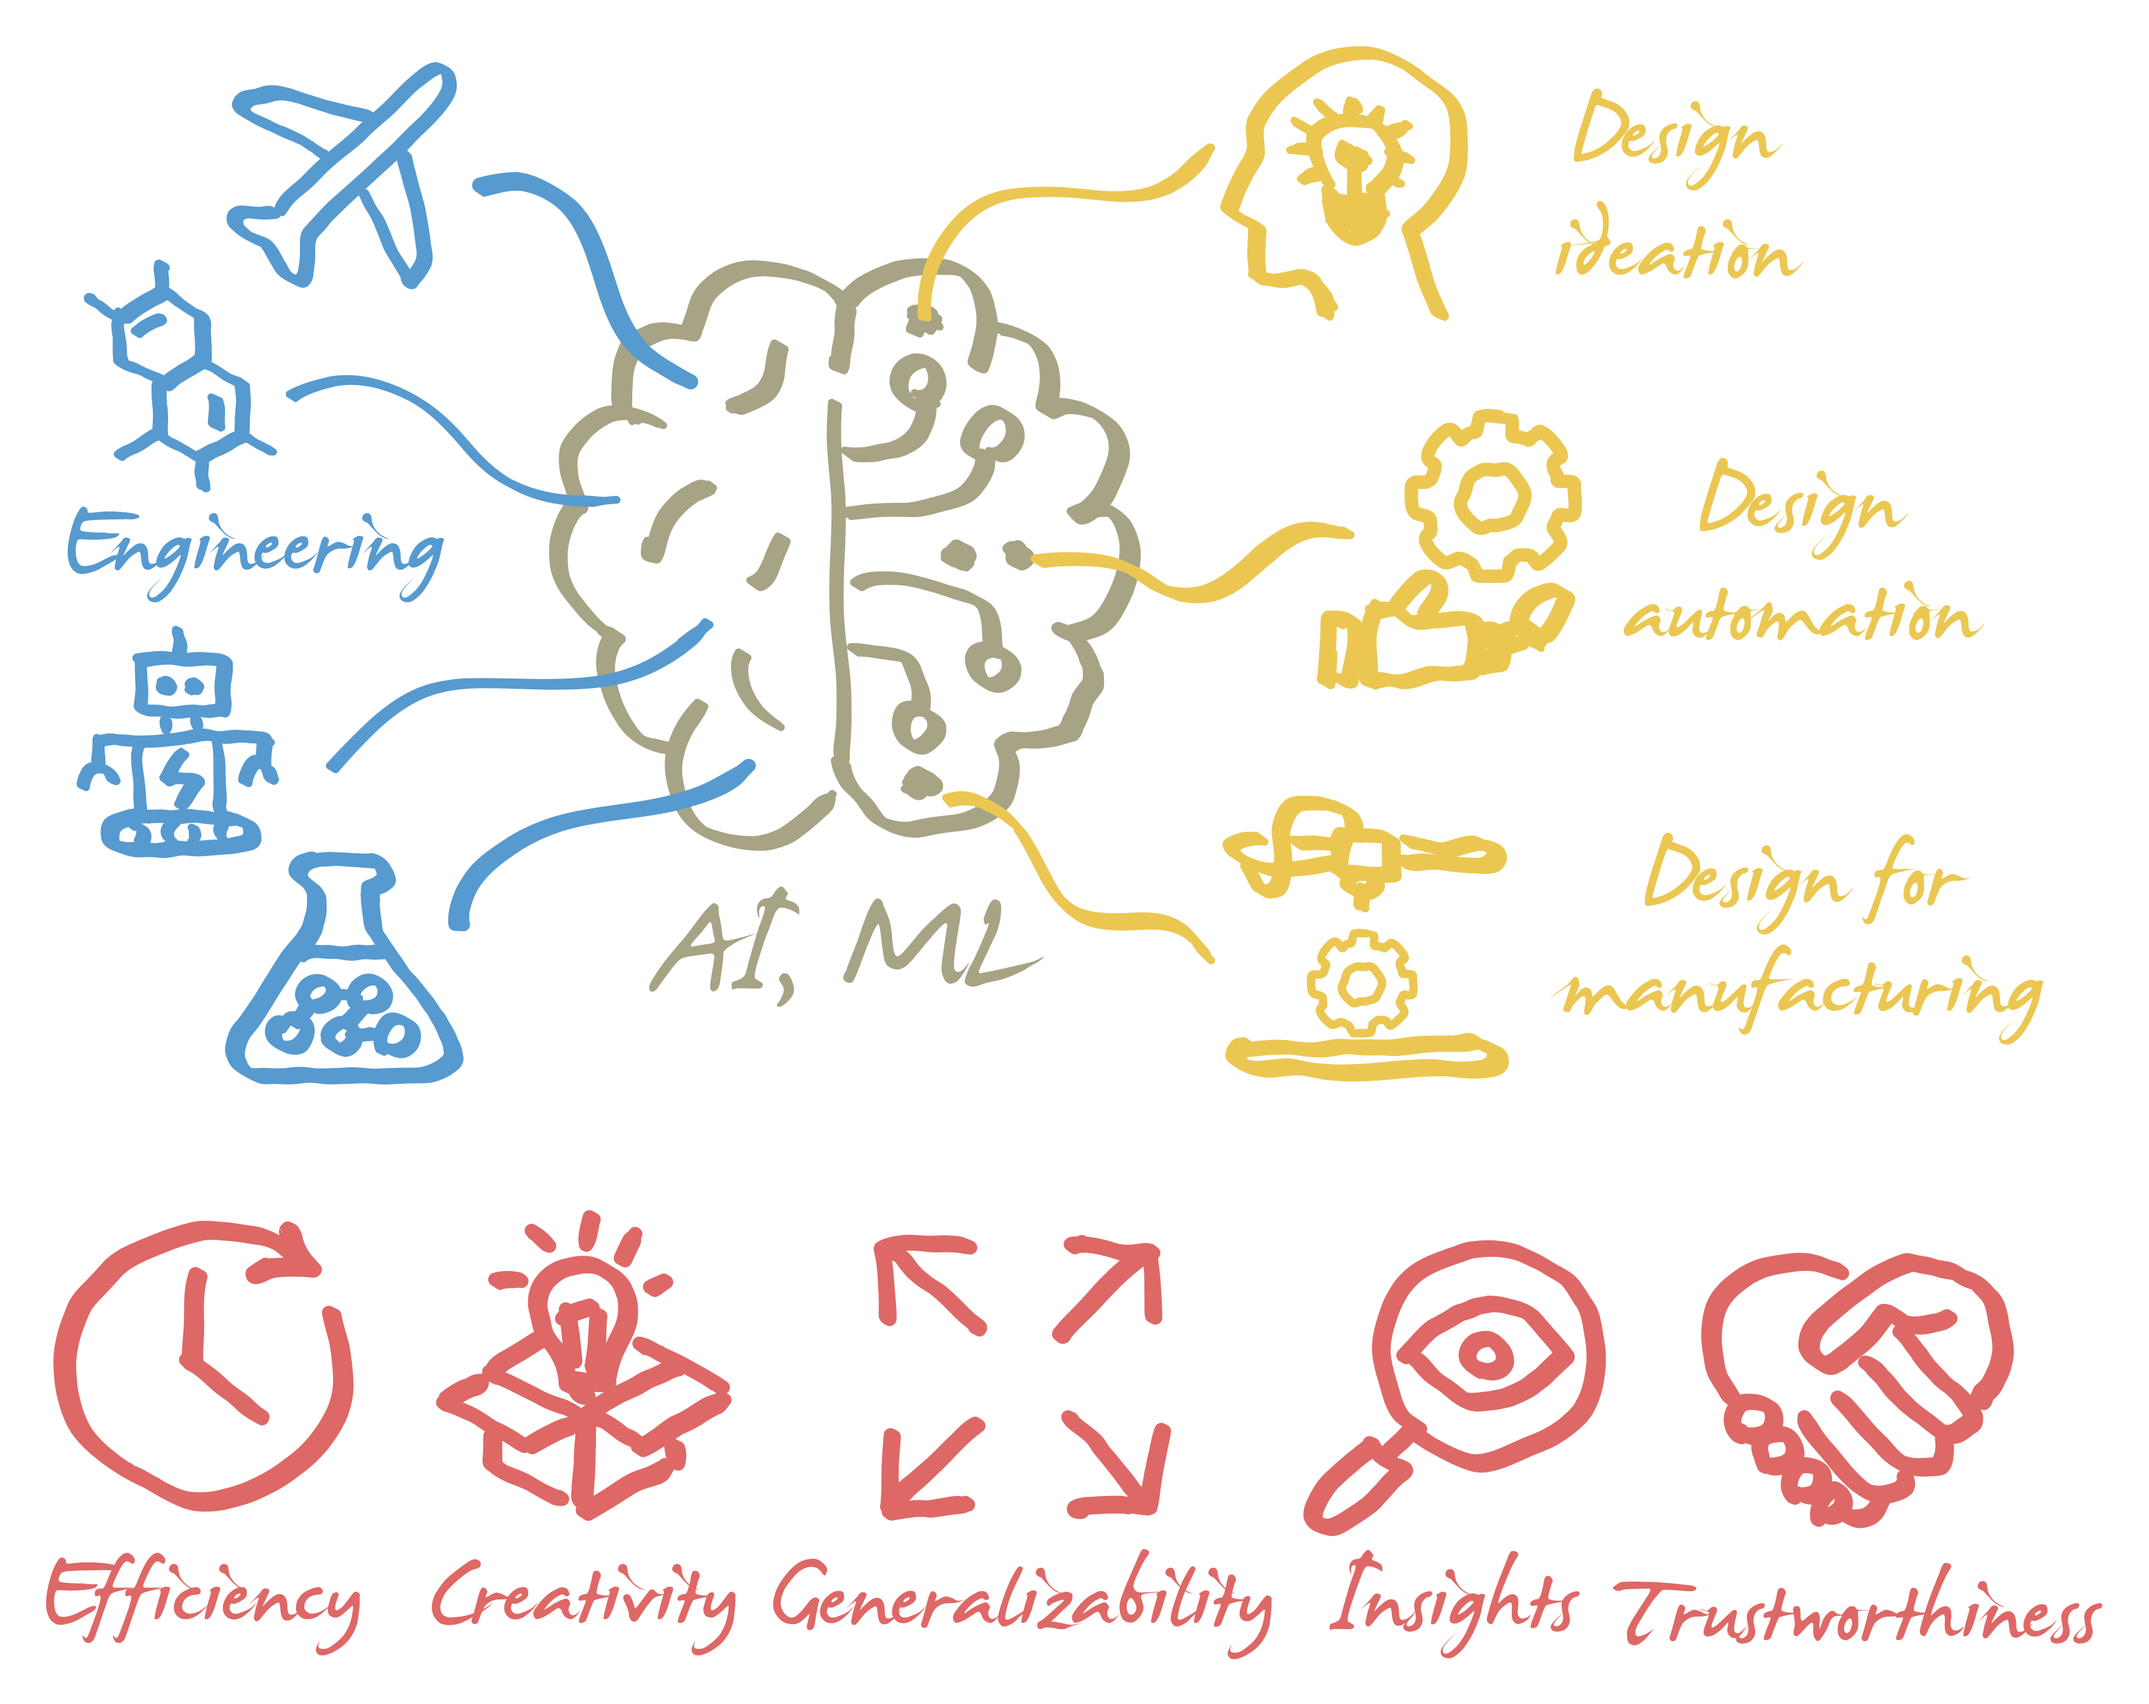
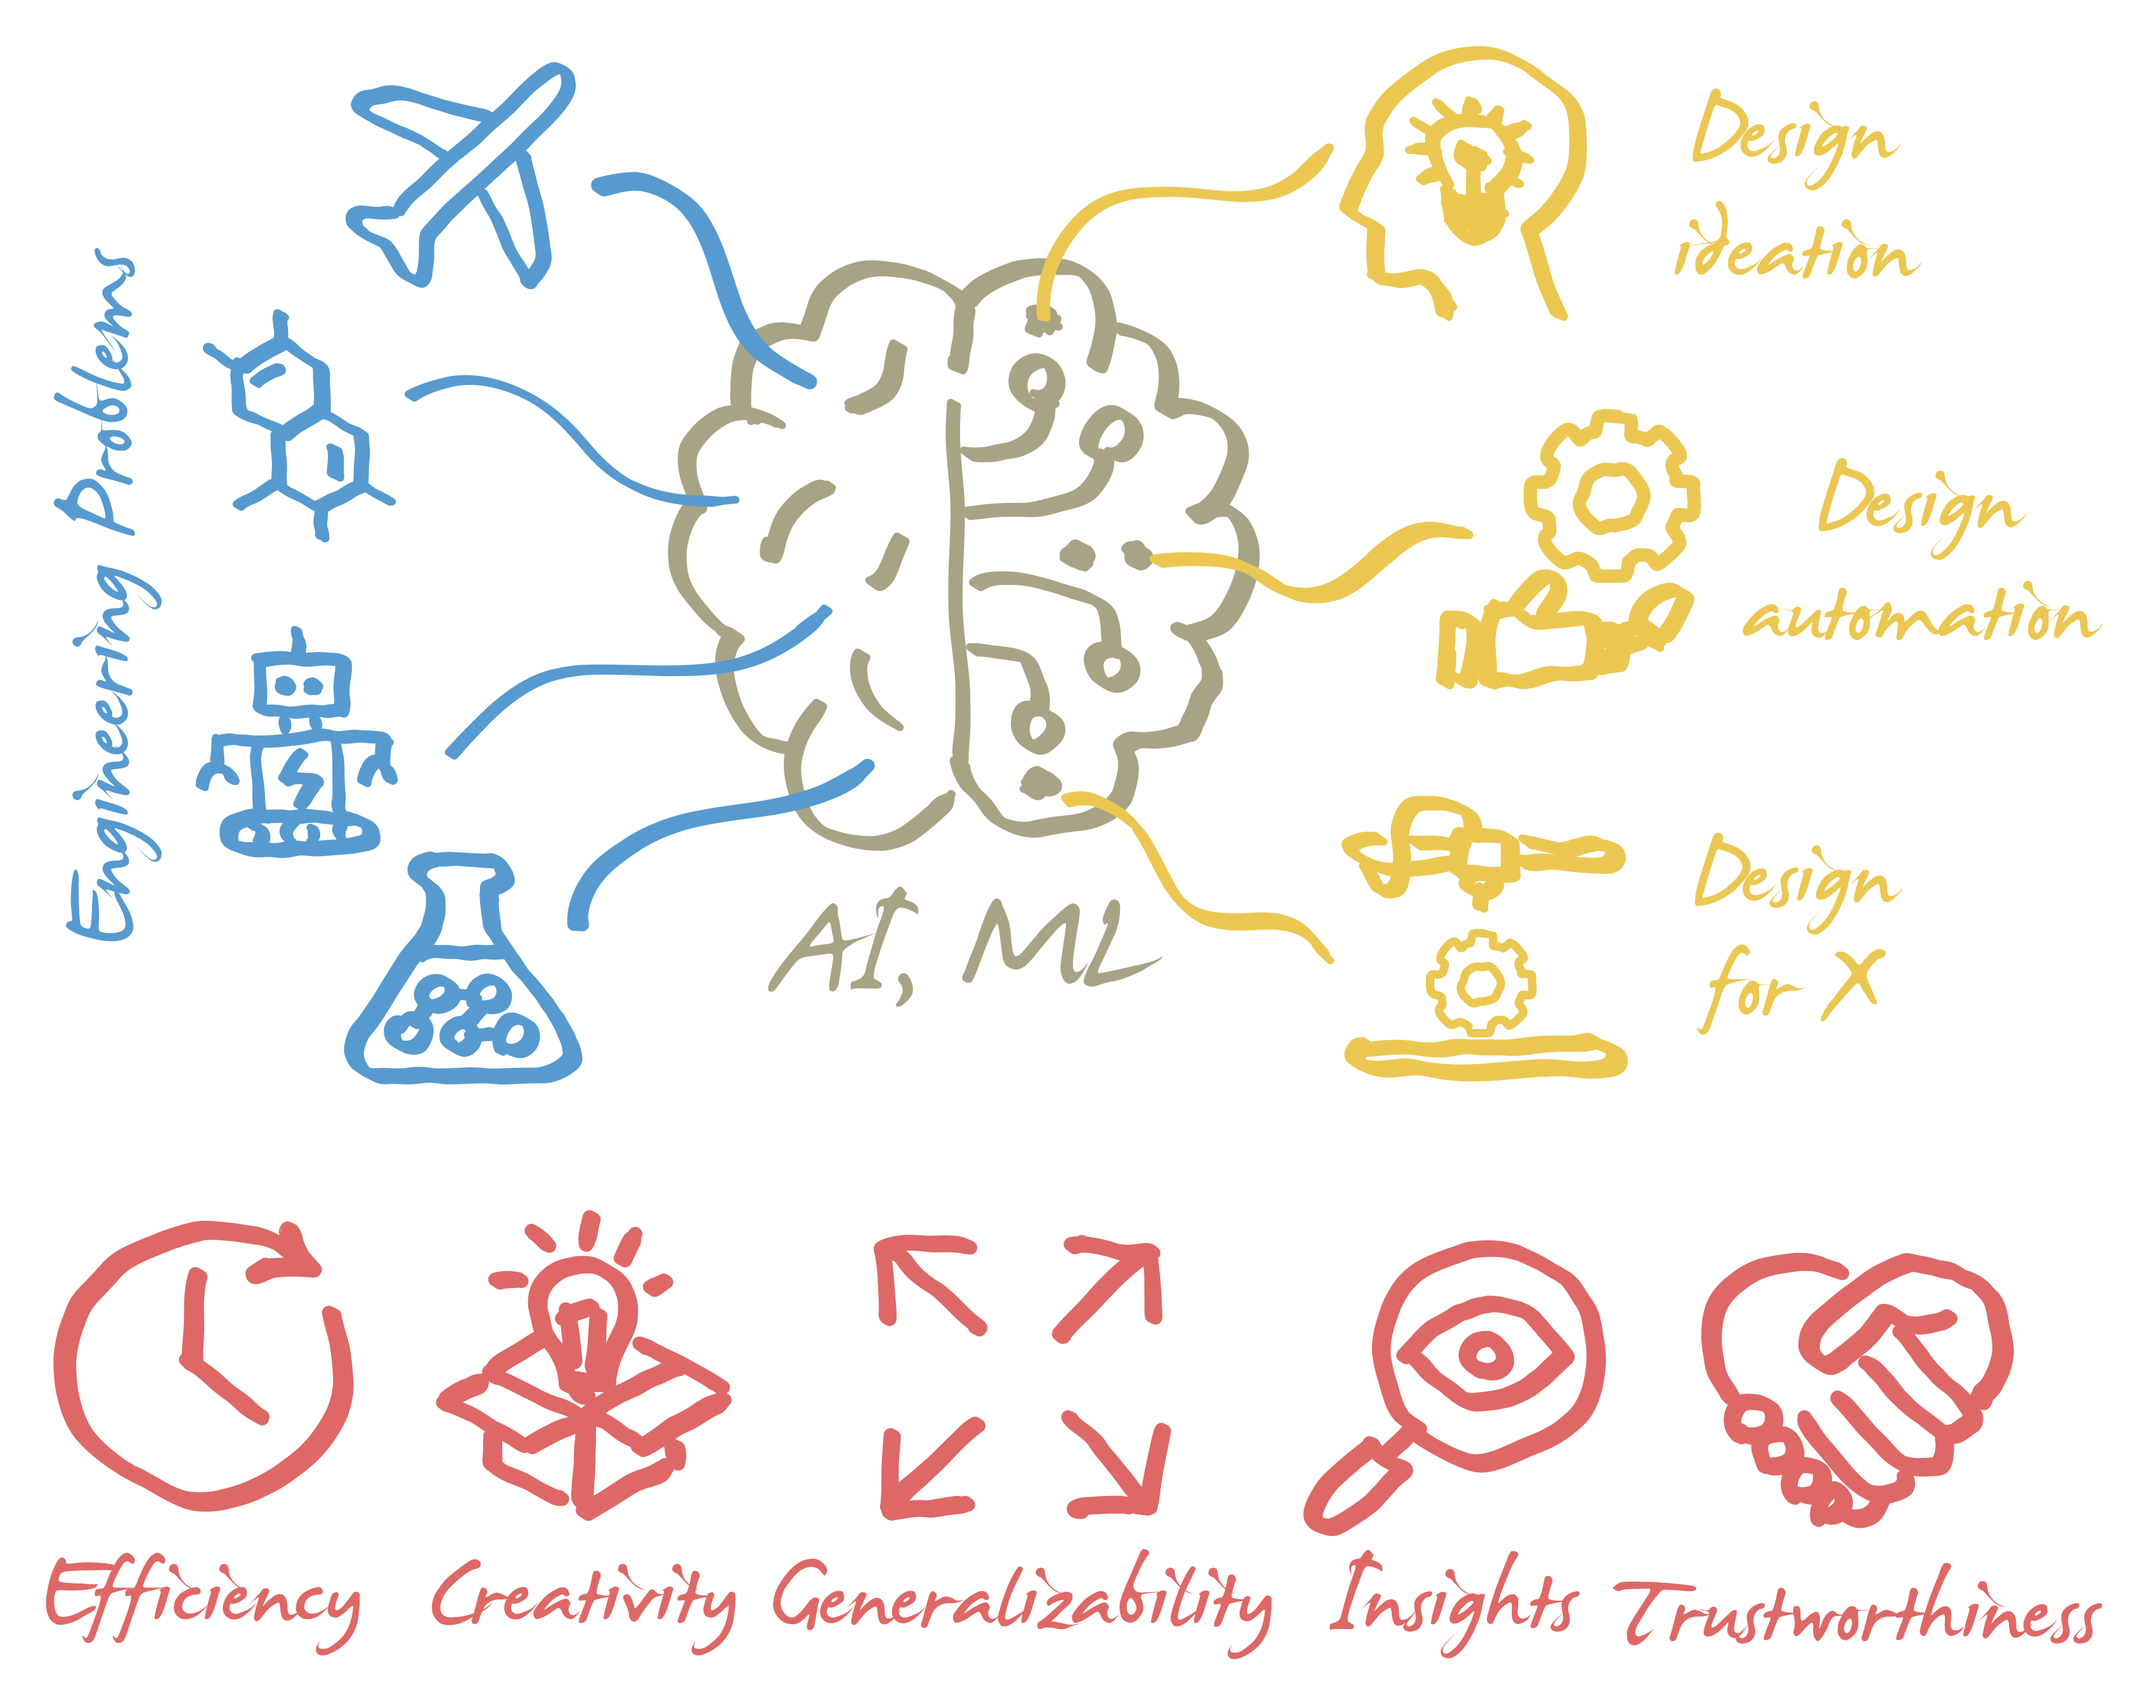
modified research description and figure

Changed region(s): [[0.031, 0.0309, 0.9914, 0.6487]]

diff --git a/content/research/index.md b/content/research/index.md
@@ -7,11 +7,11 @@ banner:
   image: ""
 ---
 
-In the Design Innovation & Generative InTelligence (DIGIT) Lab, we develop advanced **AI and machine learning (ML)** methods for engineering design, targeting some of today’s most challenging problems in design ideation, design automation, and design for manufacturing.
+In the Design Innovation & Generative InTelligence (DIGIT) Lab, we develop advanced **AI and machine learning (ML)** methods for engineering design, targeting some of today’s most challenging problems in design ideation, design automation, and design for X.
 
 * **Design ideation:** Human creativity is constrained by individual knowledge and experience, with outcomes often highly uncertain. We explore how AI can enhance the generation of creative design ideas, fostering human-AI co-creativity and accelerating design innovation.
-* **Design automation:** We develop AI and ML methods to enhance the generation of detailed design solutions, addressing the challenges of vast design spaces, costly design evaluations (e.g., simulations and experiments), and inherent uncertainties.
-* **Design for manufacturing:** We leverage AI and ML to design better manufacturing processes, enable new manufacturing techniques, and optimize design solutions by accounting for manufacturing imperfections.
+* **Design automation:** We develop AI and ML methods to automatically generate high-quality, detailed design solutions from specific targets, addressing key challenges such as expansive design spaces, costly design evaluations (e.g., simulations and experiments), and inherent uncertainties.
+* **Design for X:** The "X" encompasses a range of design objectives, such as manufacturing, sustainability, reliability, and beyond. We leverage AI, ML, and optimization to efficiently generate design solutions that balance and enhance these goals across complex design spaces.
 
 ![alt text](../../assets/media/landing_page_image.png)
 

diff --git a/content/_index.md b/content/_index.md
@@ -14,7 +14,7 @@ sections:
       text: |
         <br>
         
-        In the **D**esign **I**nnovation & **G**enerative **I**n**T**elligence (DIGIT) Lab, we develop advanced **AI and machine learning** methods for engineering design, targeting some of today's most challenging problems in **design ideation** (how can AI help us generate innovative ideas?), **design automation** (how can AI automate the design process?), and **design for manufacturing** (how can AI account for the manufacturing process?).
+        In the **D**esign **I**nnovation & **G**enerative **I**n**T**elligence (DIGIT) Lab, we develop advanced **AI and machine learning** methods for engineering design, targeting some of today's most challenging problems in **design ideation** (how can AI help us generate innovative ideas?), **design automation** (how can AI automate the design process?), and **design for X** (how can AI advance design for manufacturing, sustainability, and beyond?).
 
   
   - block: markdown

diff --git a/content/join/index.md b/content/join/index.md
@@ -13,7 +13,7 @@ Ideal candidates will have strong foundations in mathematics and programming. We
 
 To express your interest, please email Dr. Wei Chen at [w.chen@tamu.edu](mailto:w.chen@tamu.edu) with the following:
 
-* A brief description (≤ 200 words) of your research interest and how they align with the work of the DIGIT Lab
+* A brief description (≤ 200 words) of your research interest and how it aligns with the work of the DIGIT Lab
 * Your CV
 * Transcript(s)
 
